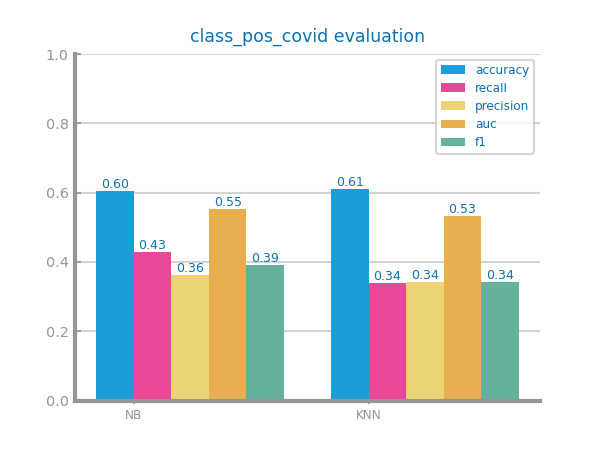
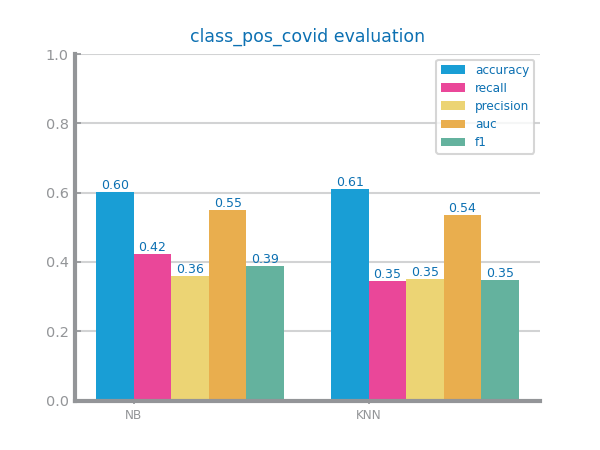
correct for test 0.2 instead of 0.3

diff --git a/pos_covid_prep.py b/pos_covid_prep.py
@@ -94,7 +94,7 @@ x = df.drop(columns=[target])
 y = df[target]
 
 # Split the data into training and test sets
-X_train, X_test, y_train, y_test = train_test_split(x, y, test_size=0.3, random_state=42)
+X_train, X_test, y_train, y_test = train_test_split(x, y, test_size=0.2, random_state=42)
 df_train = concat([X_train, y_train], axis=1)
 df_test = concat([X_test,y_test], axis=1)
 
